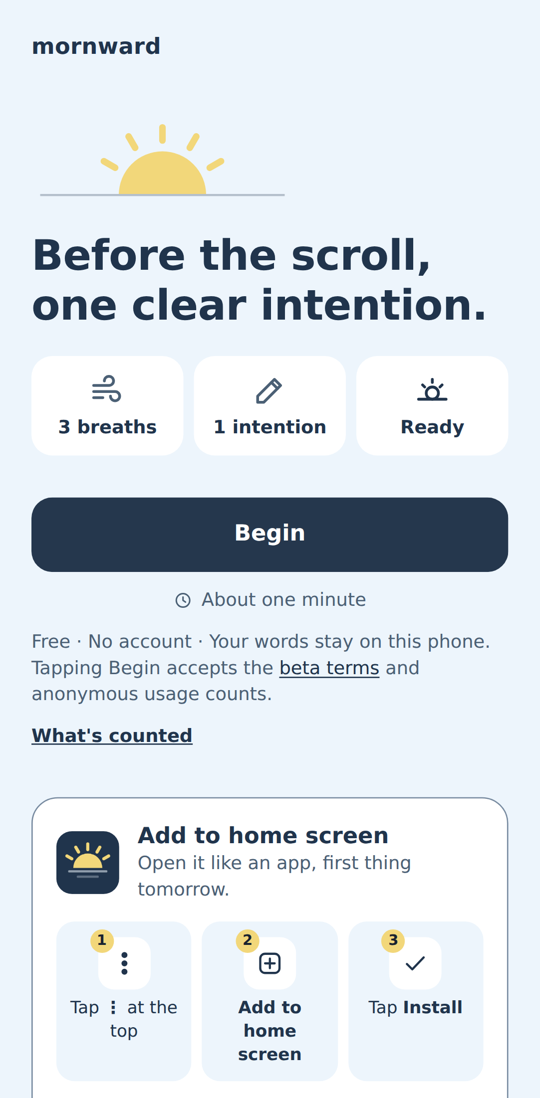
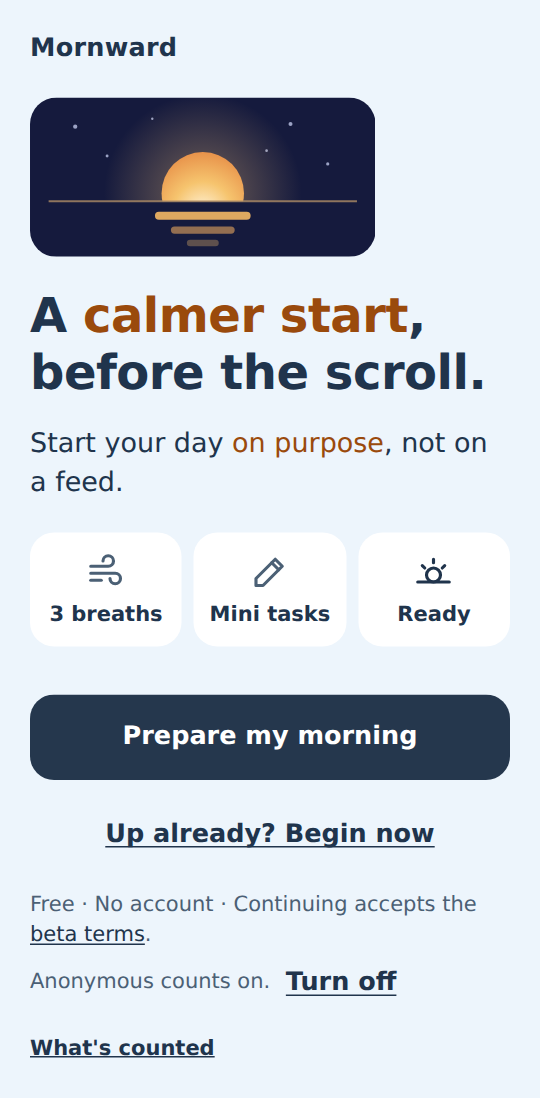
Android install screenshots of the current design; terms dated 5 October
Claude-Session: https://claude.ai/code/session_01JL3H33VbHNwdA4MuumRdDq

diff --git a/terms.html b/terms.html
@@ -129,7 +129,7 @@
       email or contact details, and only the developer can read them. They're used only to learn whether the beta
       helps, and they're never sold, shared or used for ads.</p>
     <p><strong>How long:</strong> the records are deleted within 90 days after the beta ends, or sooner if you ask.</p>
-    <p class="small">Last updated 6 October 2026 · beta-5</p>
+    <p class="small">Last updated 5 October 2026 · beta-5</p>
   </section>
 
   <a class="back" href="./">← Back to Mornward</a>
